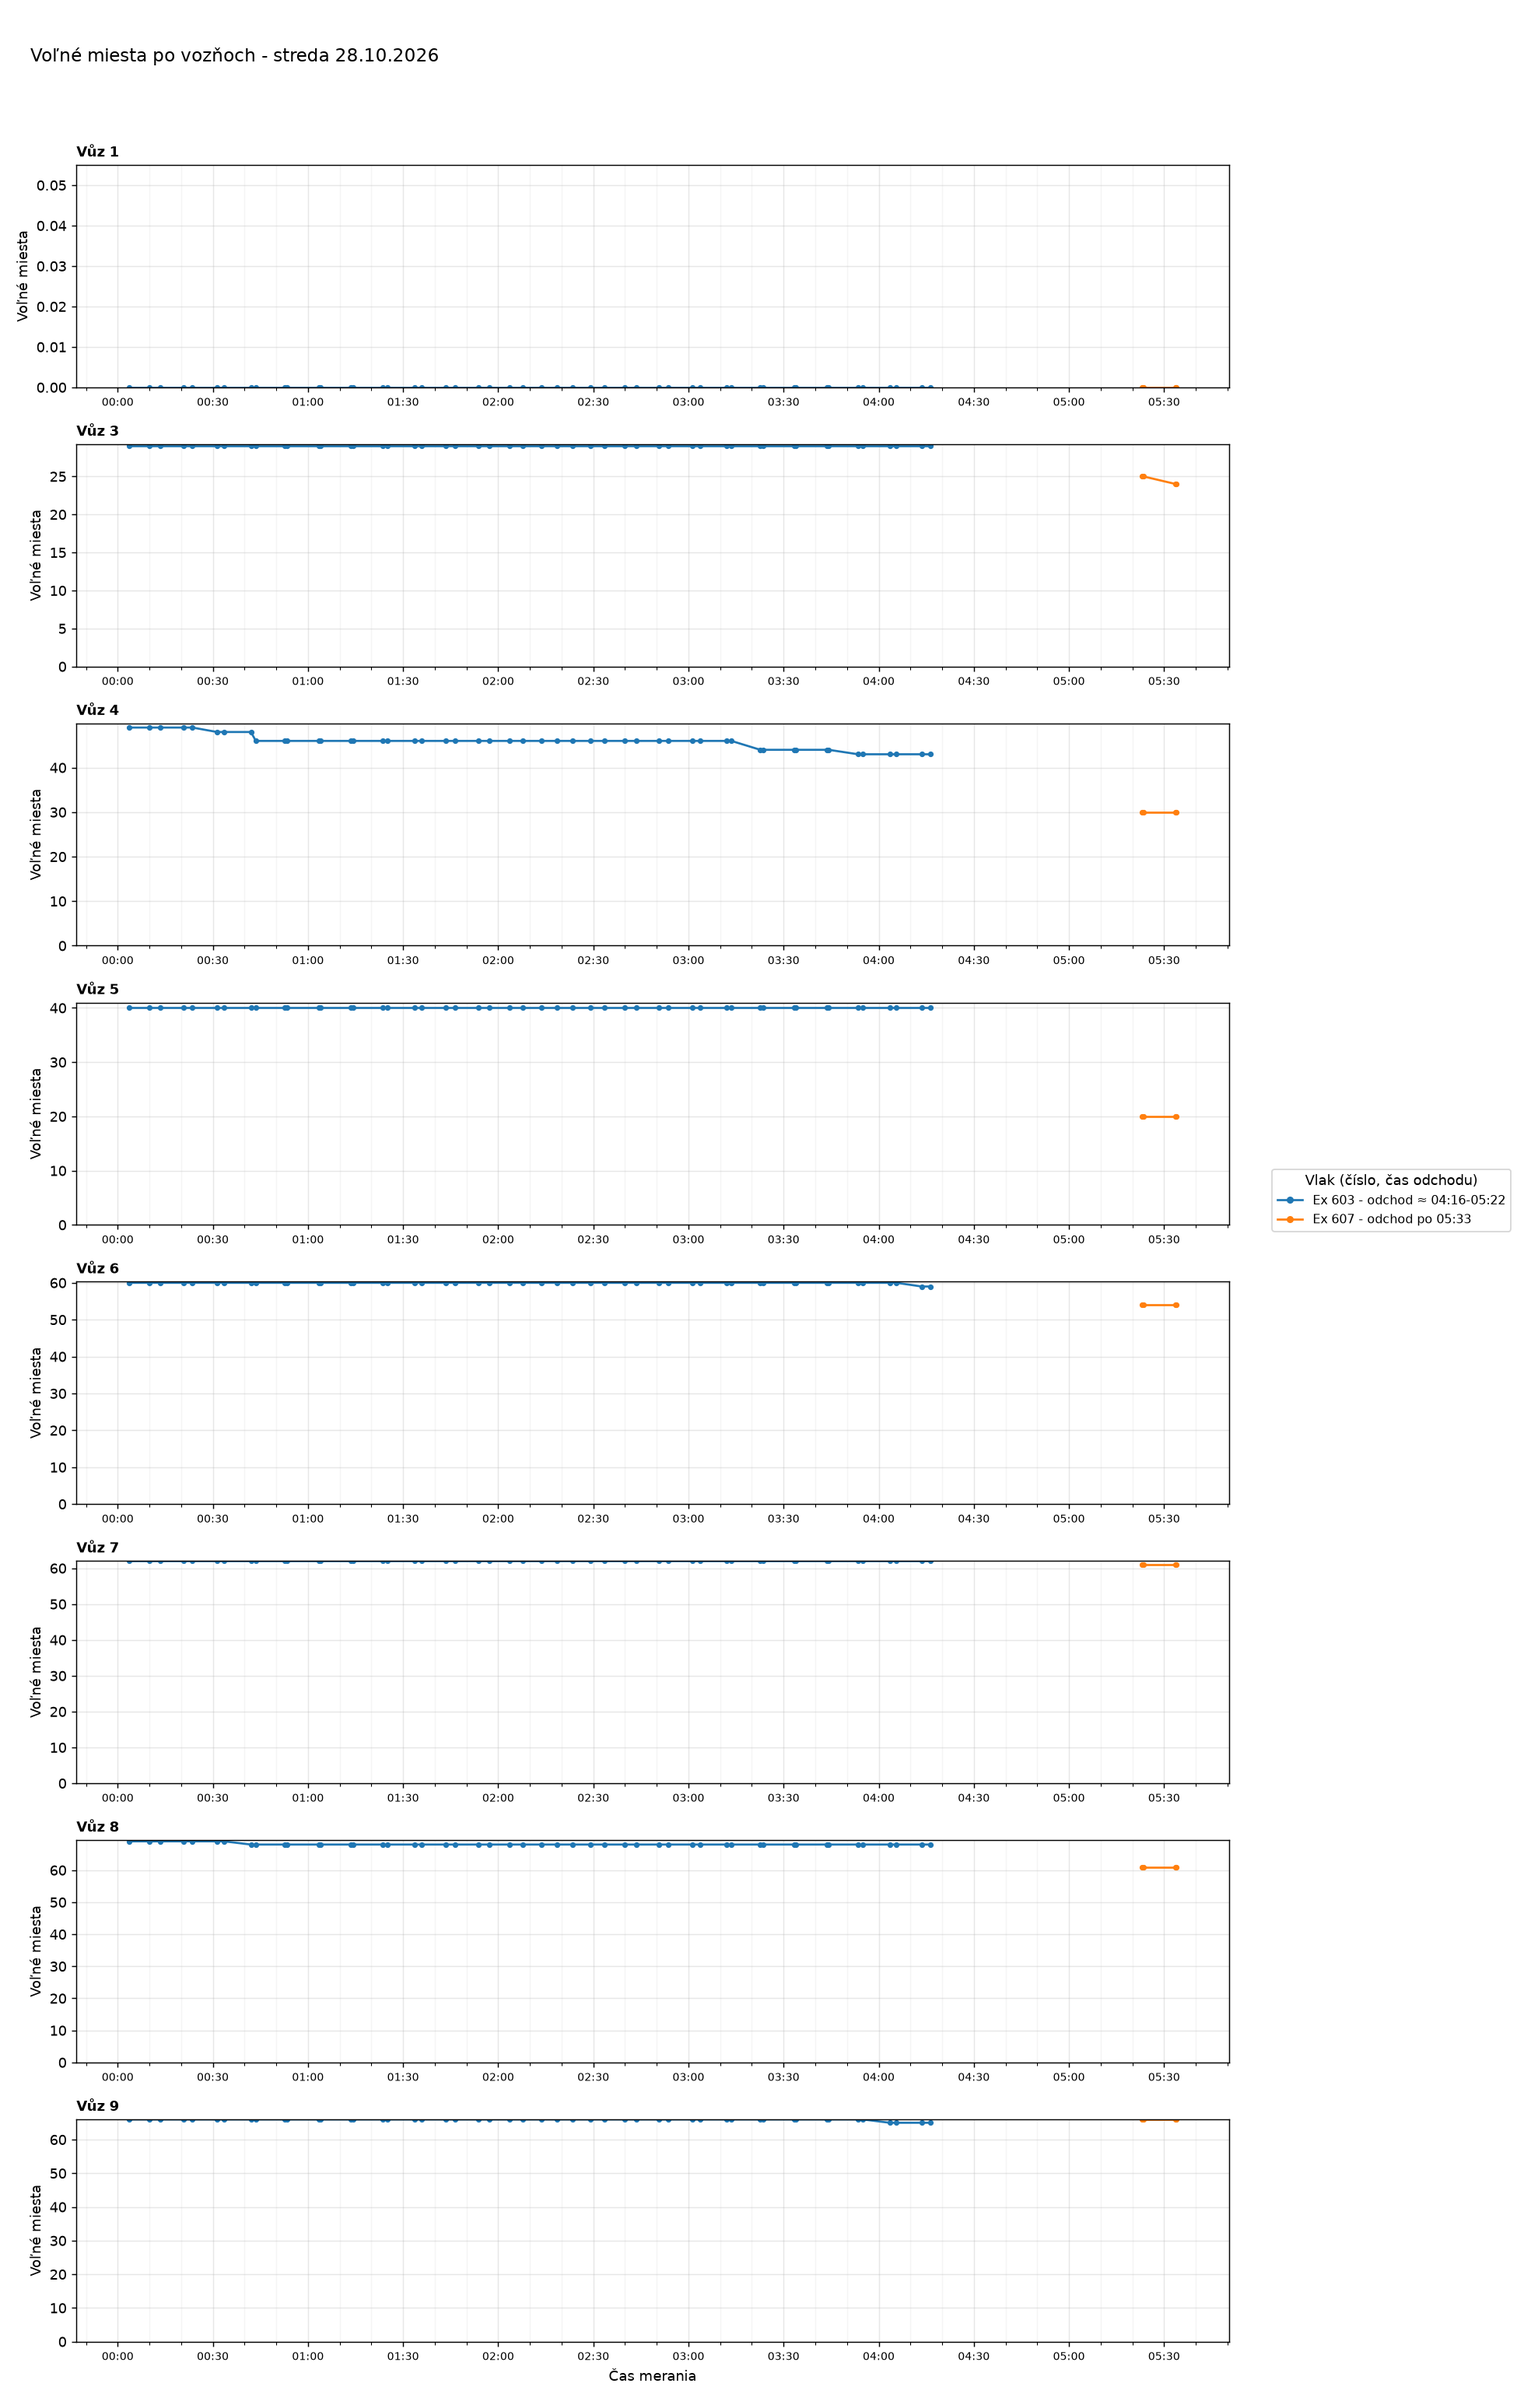
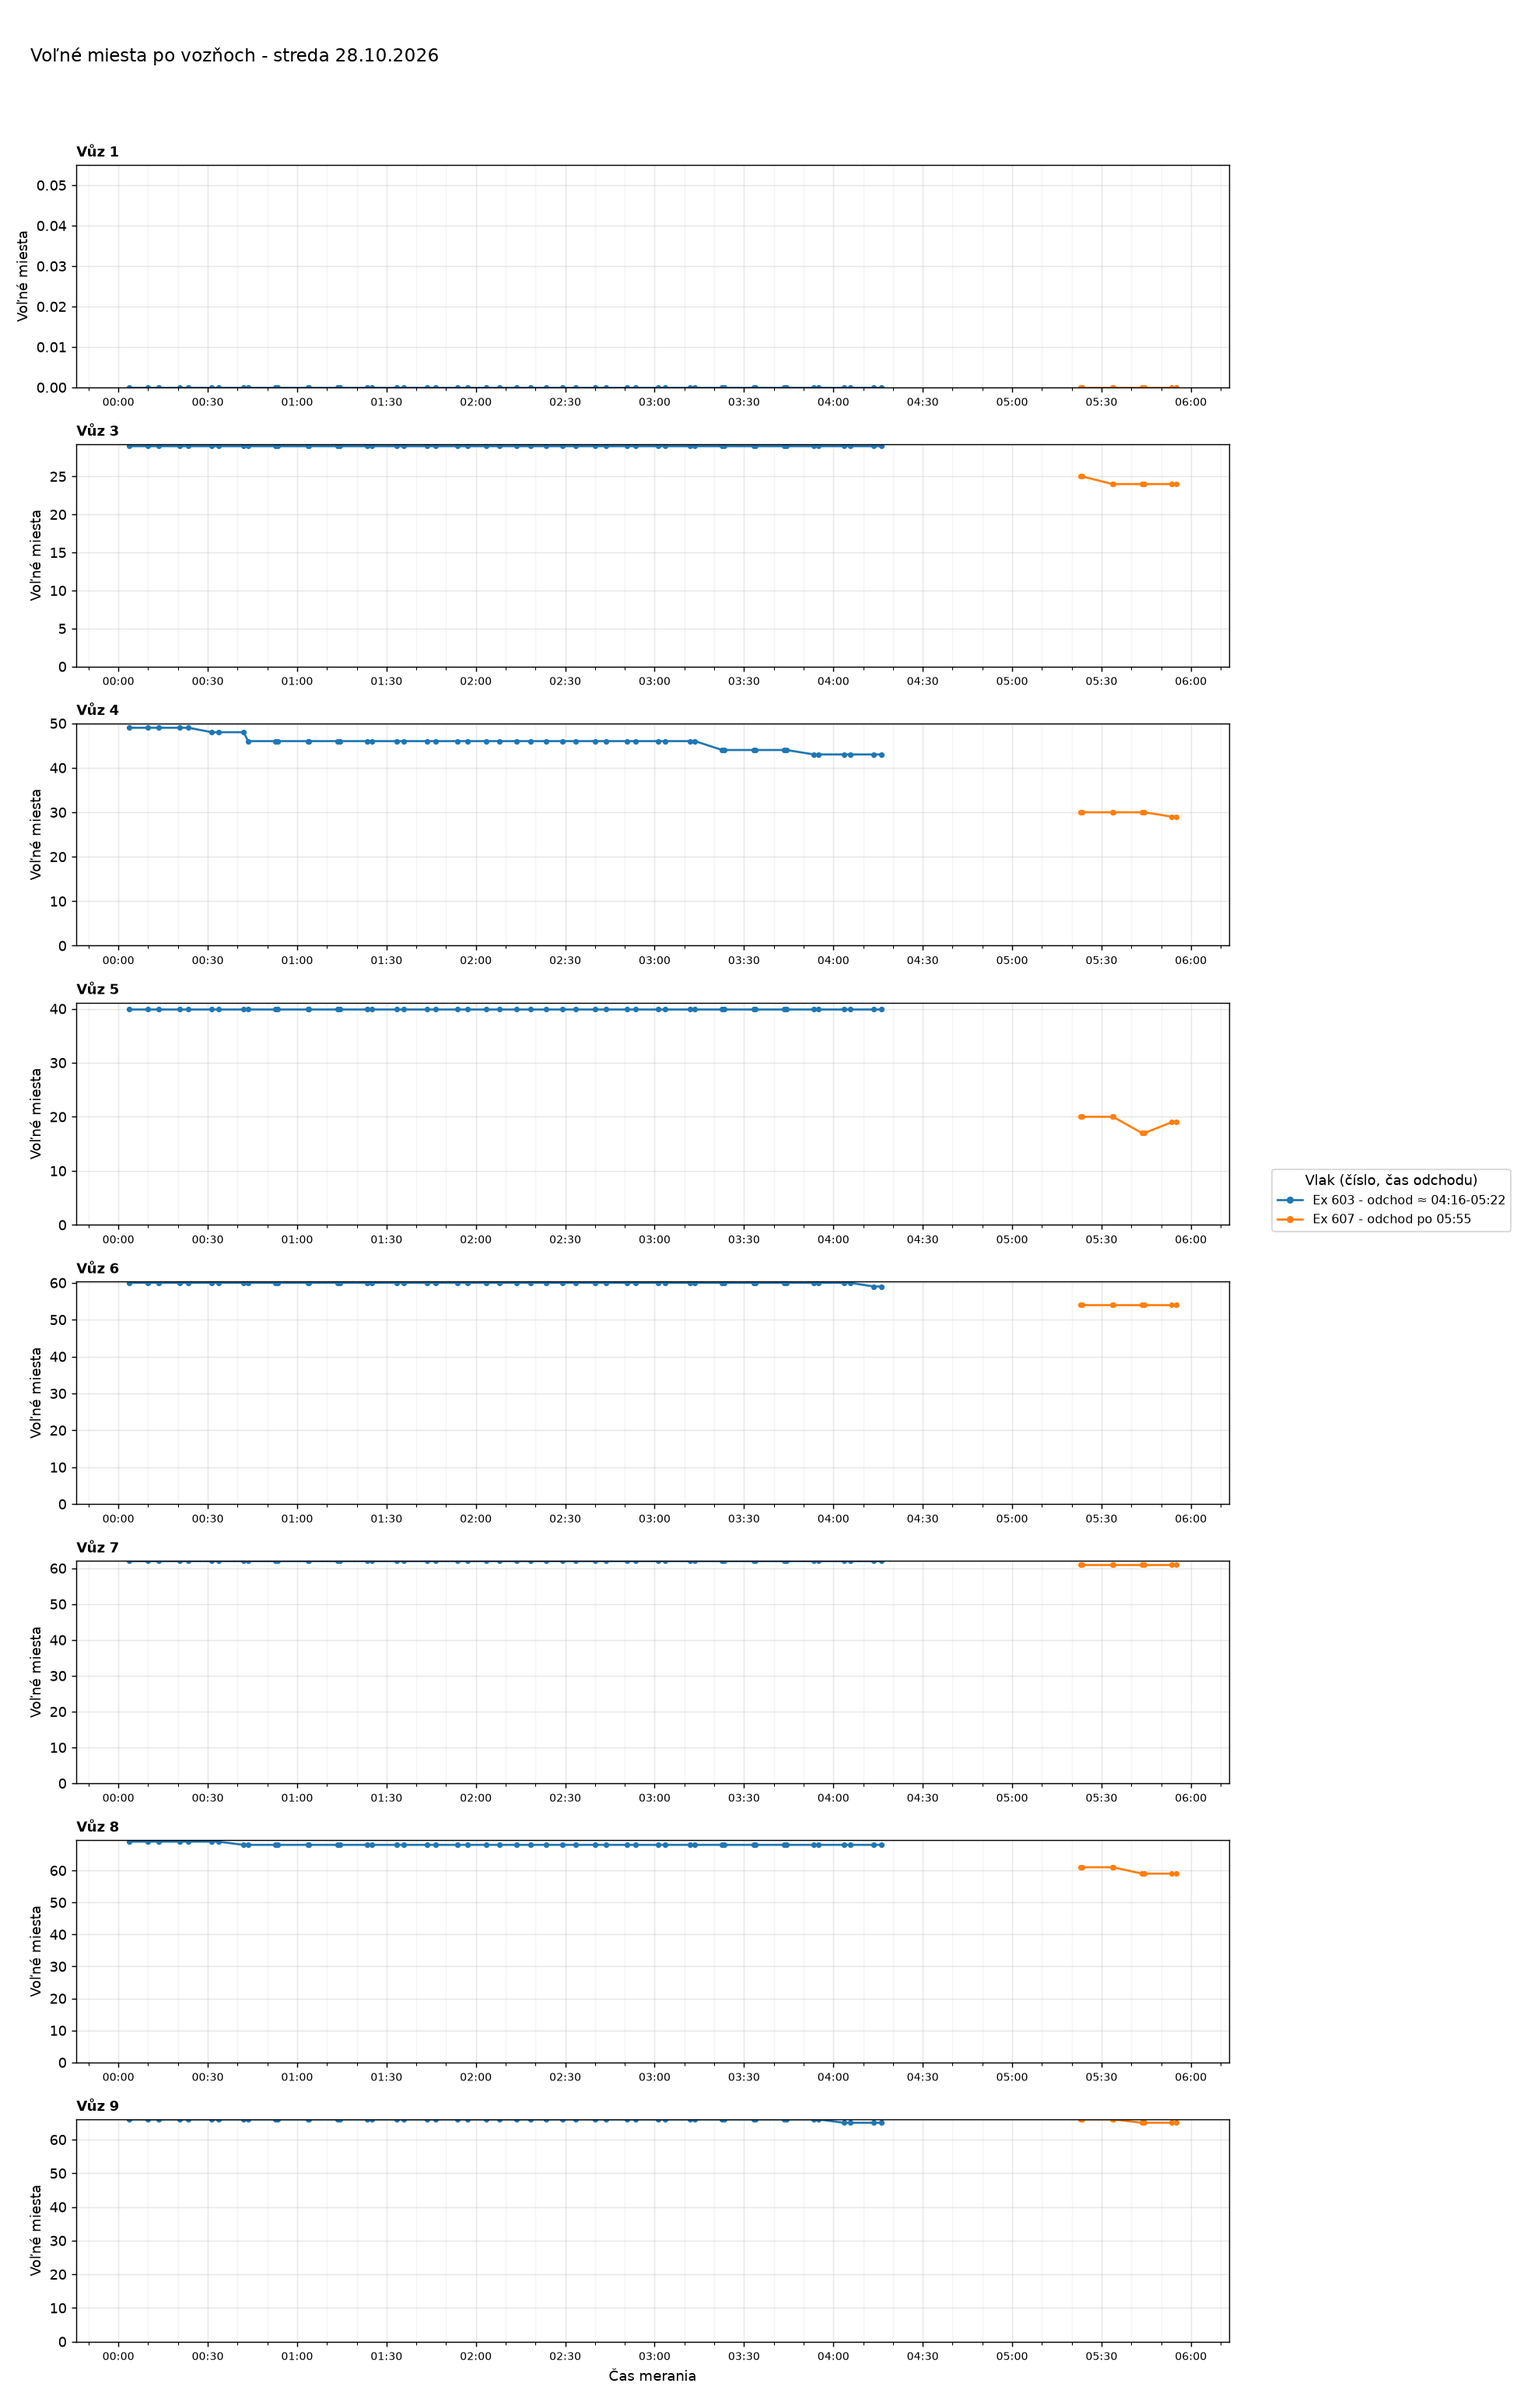
Aktualizácia grafov 2026-10-28 05:59

Changed region(s): [[0.1231, 0.28, 0.1538, 0.3111]]

diff --git a/index.html b/index.html
@@ -35,7 +35,7 @@ h2.oddiel{margin:36px 0 0;font-size:1.4rem}
 <body>
 <main>
 <h1>Voľné miesta vo vlakoch</h1>
-<p class="muted">Posledné meranie: 28.10.2026 05:33 ·
+<p class="muted">Posledné meranie: 28.10.2026 05:55 ·
 <a href="data/obsadenost_data.csv">stiahnuť dáta (CSV)</a></p>
 <nav class="nav"><a href="#suhrn">Súhrn</a><a href="#statistiky">Štatistiky</a><a href="#historia">História grafov</a></nav>
 
@@ -44,7 +44,7 @@ h2.oddiel{margin:36px 0 0;font-size:1.4rem}
 <div class="tablewrap"><table>
 <thead><tr><th>Deň</th><th>Meraní</th><th>Vlakov</th><th>Čas meraní</th></tr></thead>
 <tbody>
-<tr><td><a href="#d2026-10-28">streda 28.10.2026</a></td><td>54</td><td>2</td><td>00:03-05:33</td></tr>
+<tr><td><a href="#d2026-10-28">streda 28.10.2026</a></td><td>58</td><td>2</td><td>00:03-05:55</td></tr>
 <tr><td><a href="#d2026-10-27">utorok 27.10.2026</a></td><td>99</td><td>11</td><td>00:01-23:59</td></tr>
 <tr><td><a href="#d2026-10-26">pondelok 26.10.2026</a></td><td>88</td><td>14</td><td>00:06-23:50</td></tr>
 <tr><td><a href="#d2026-10-25">nedeľa 25.10.2026</a></td><td>101</td><td>15</td><td>00:01-23:56</td></tr>
